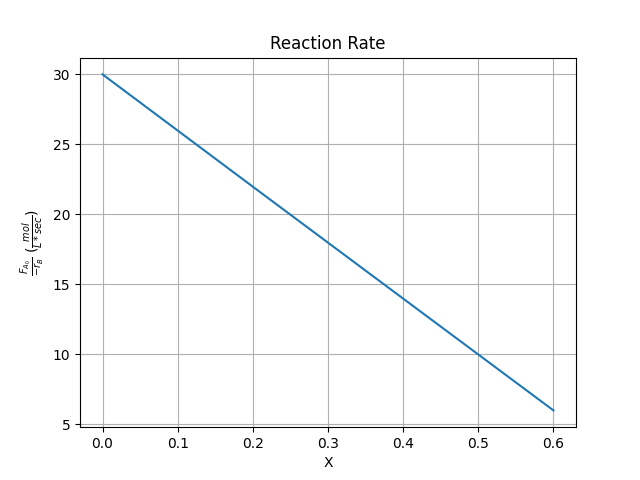
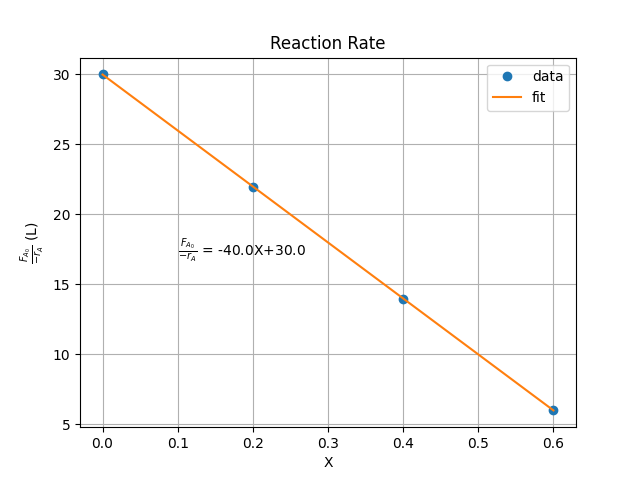
d

diff --git a/Spring_2022/chemRxnEng/HW1_2.py b/Spring_2022/chemRxnEng/HW1_2.py
@@ -4,22 +4,27 @@ import numpy as np
 x = np.array([0,.2,.4,.6,.65,.7,.75,.8,.85,.9])
 r = np.array([2,2.73,4.29,10,10,10,6.67,5,4,3.33])/60
 FA0 = 1
+a,b = np.polyfit(x[:4],FA0/r[:4],1)
+# print(a,b)
 def full():
     plt.plot(x,r,'o')
     plt.title('Reaction Rate')
     plt.xlabel('X')
-    plt.ylabel(''.join(['-$r_B$ ','(',r'$\frac{mol}{L*sec}$',')']))
+    plt.ylabel(''.join(['-$r_A$ ','(',r'$\frac{mol}{L*sec}$',')']))
     plt.grid()
     plt.savefig('HW1_2_plot')
 
 
 def part():
 
-    plt.plot(x[:4],FA0/r[:4])
+    plt.plot(x[:4],FA0/r[:4],'o',label='data')
+    plt.plot(x[:4],a*x[:4]+b,label='fit')
     plt.title('Reaction Rate')
     plt.xlabel('X')
     plt.grid()
-    plt.ylabel(''.join([r'$\frac{F_{A_0}}{-r_B}$',' (',r'$\frac{mol}{L*sec}$',')']))
+    plt.legend()
+    plt.text(.1,17,''.join([r'$\frac{F_{A_0}}{-r_A}$ = ',str(round(a,1)),'X+',str(round(b,1))]))
+    plt.ylabel(''.join([r'$\frac{F_{A_0}}{-r_A}$',' (L)']))
     plt.savefig('HW1_2_plot2')
     
 part()
